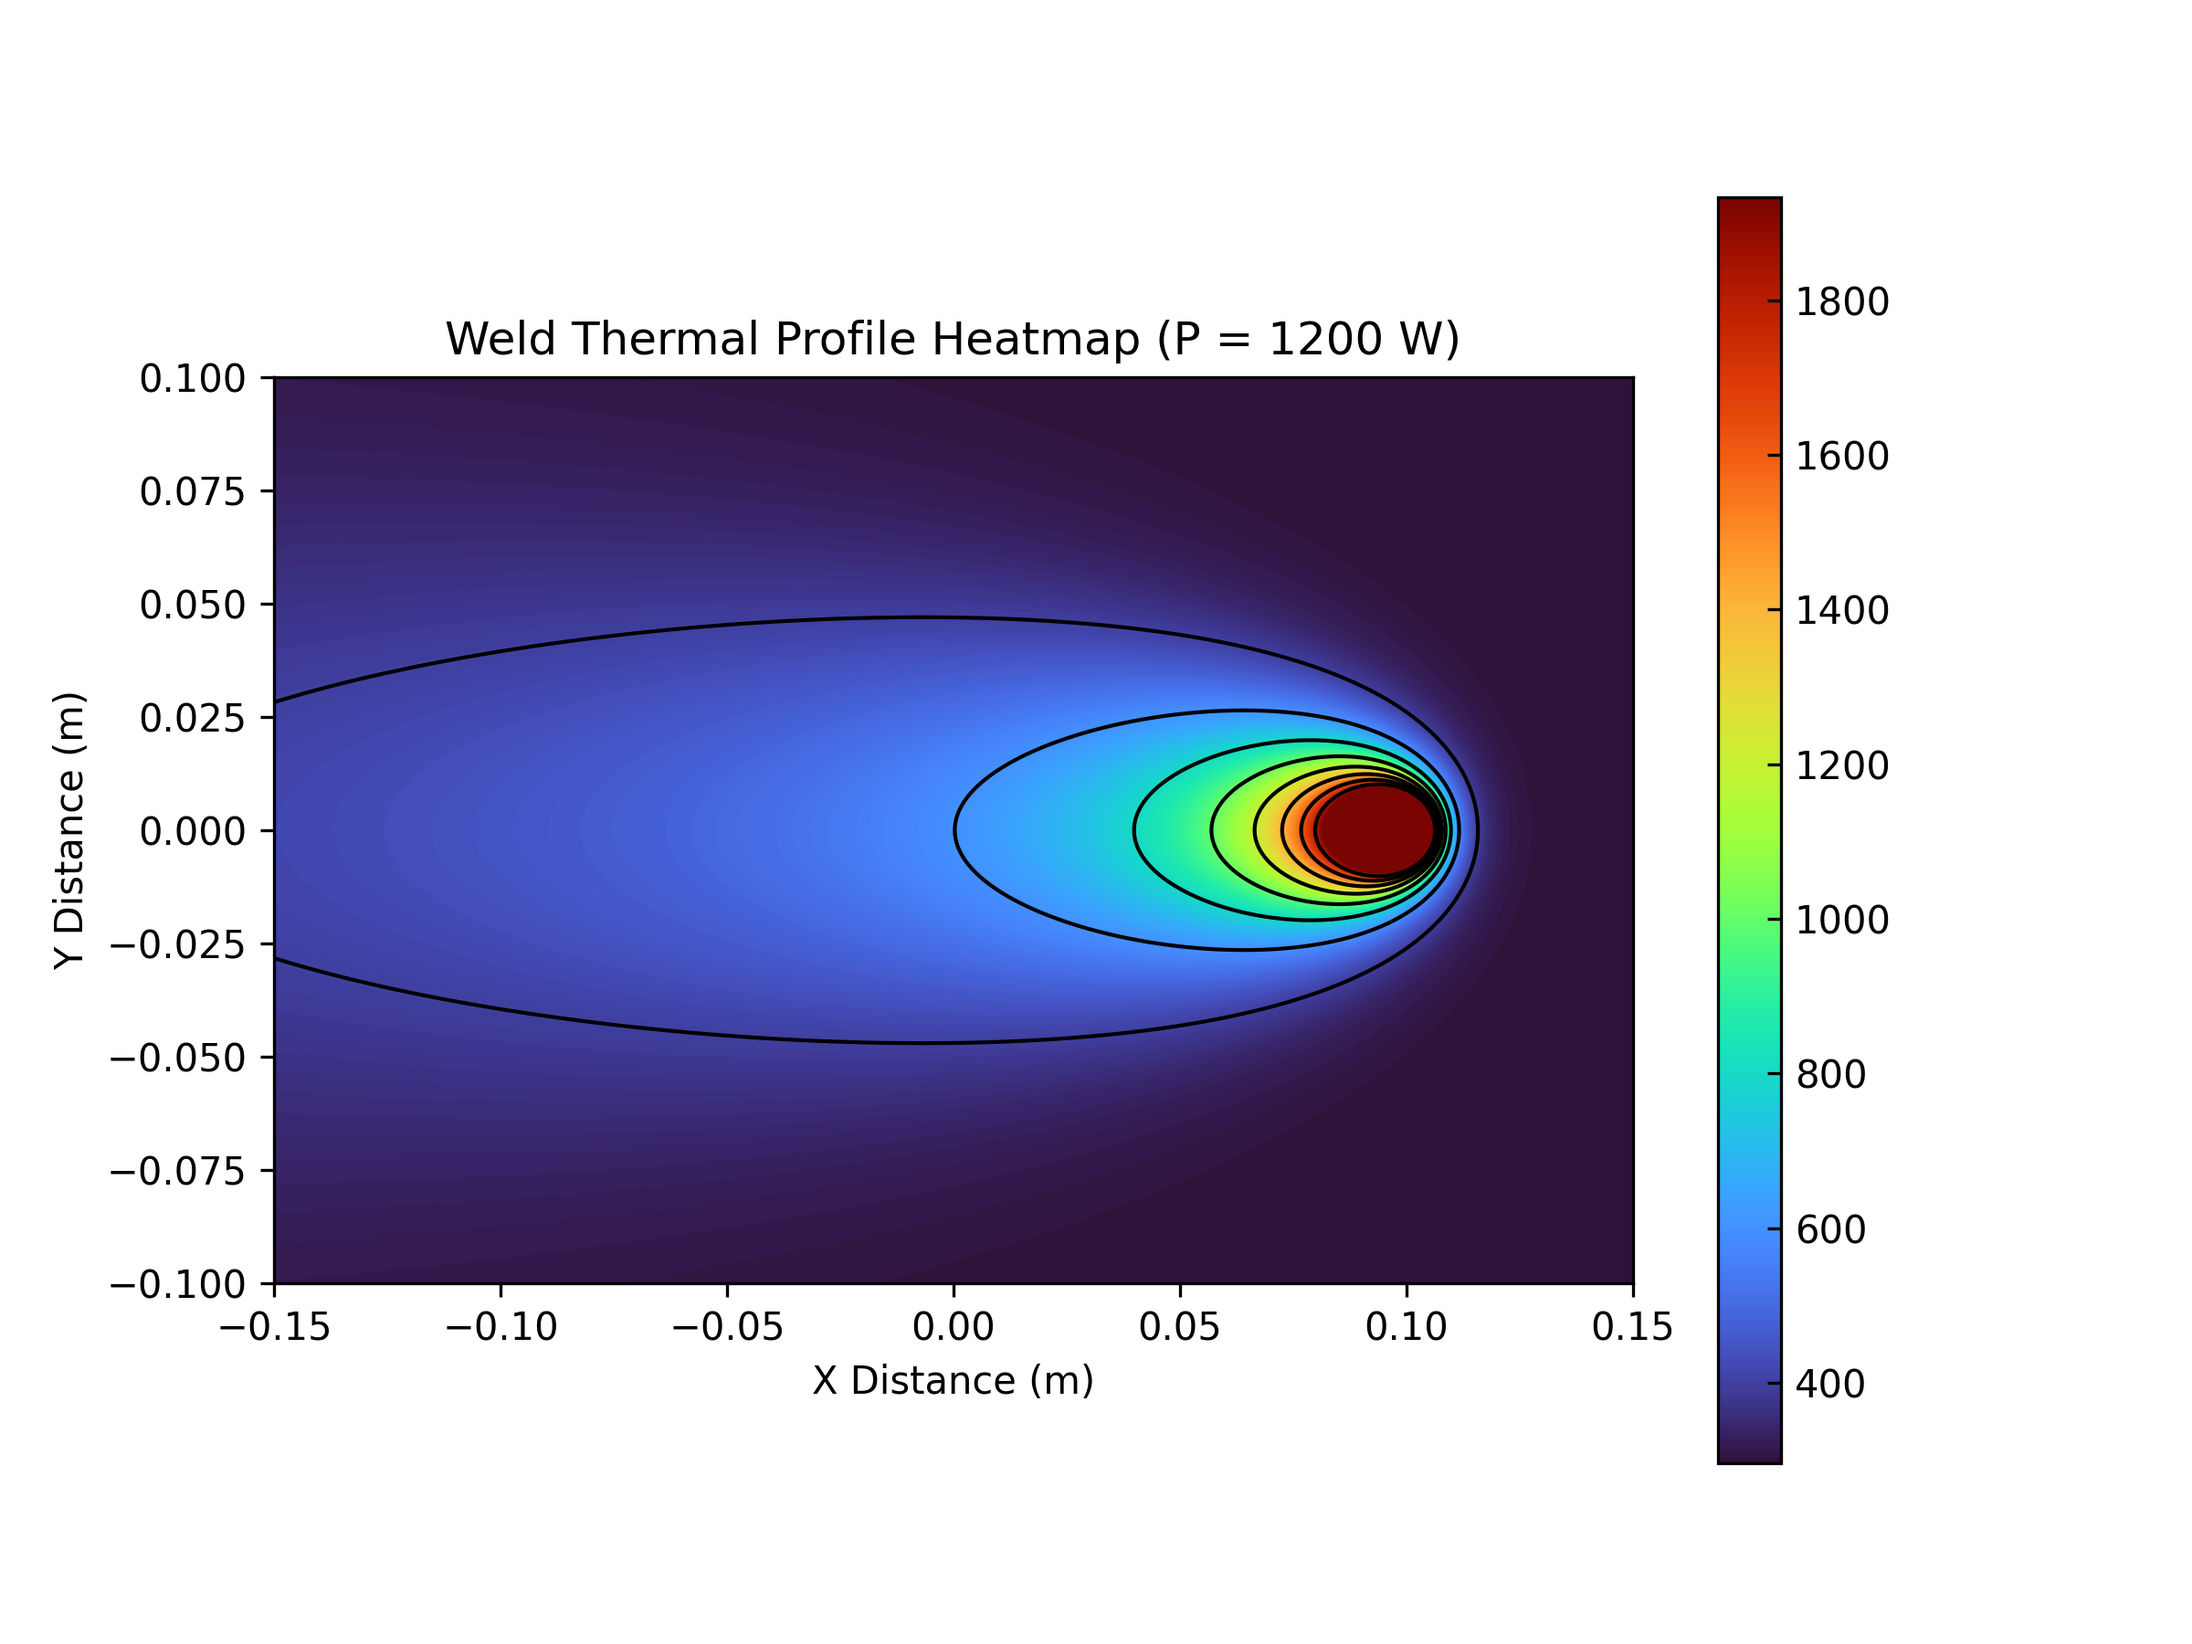
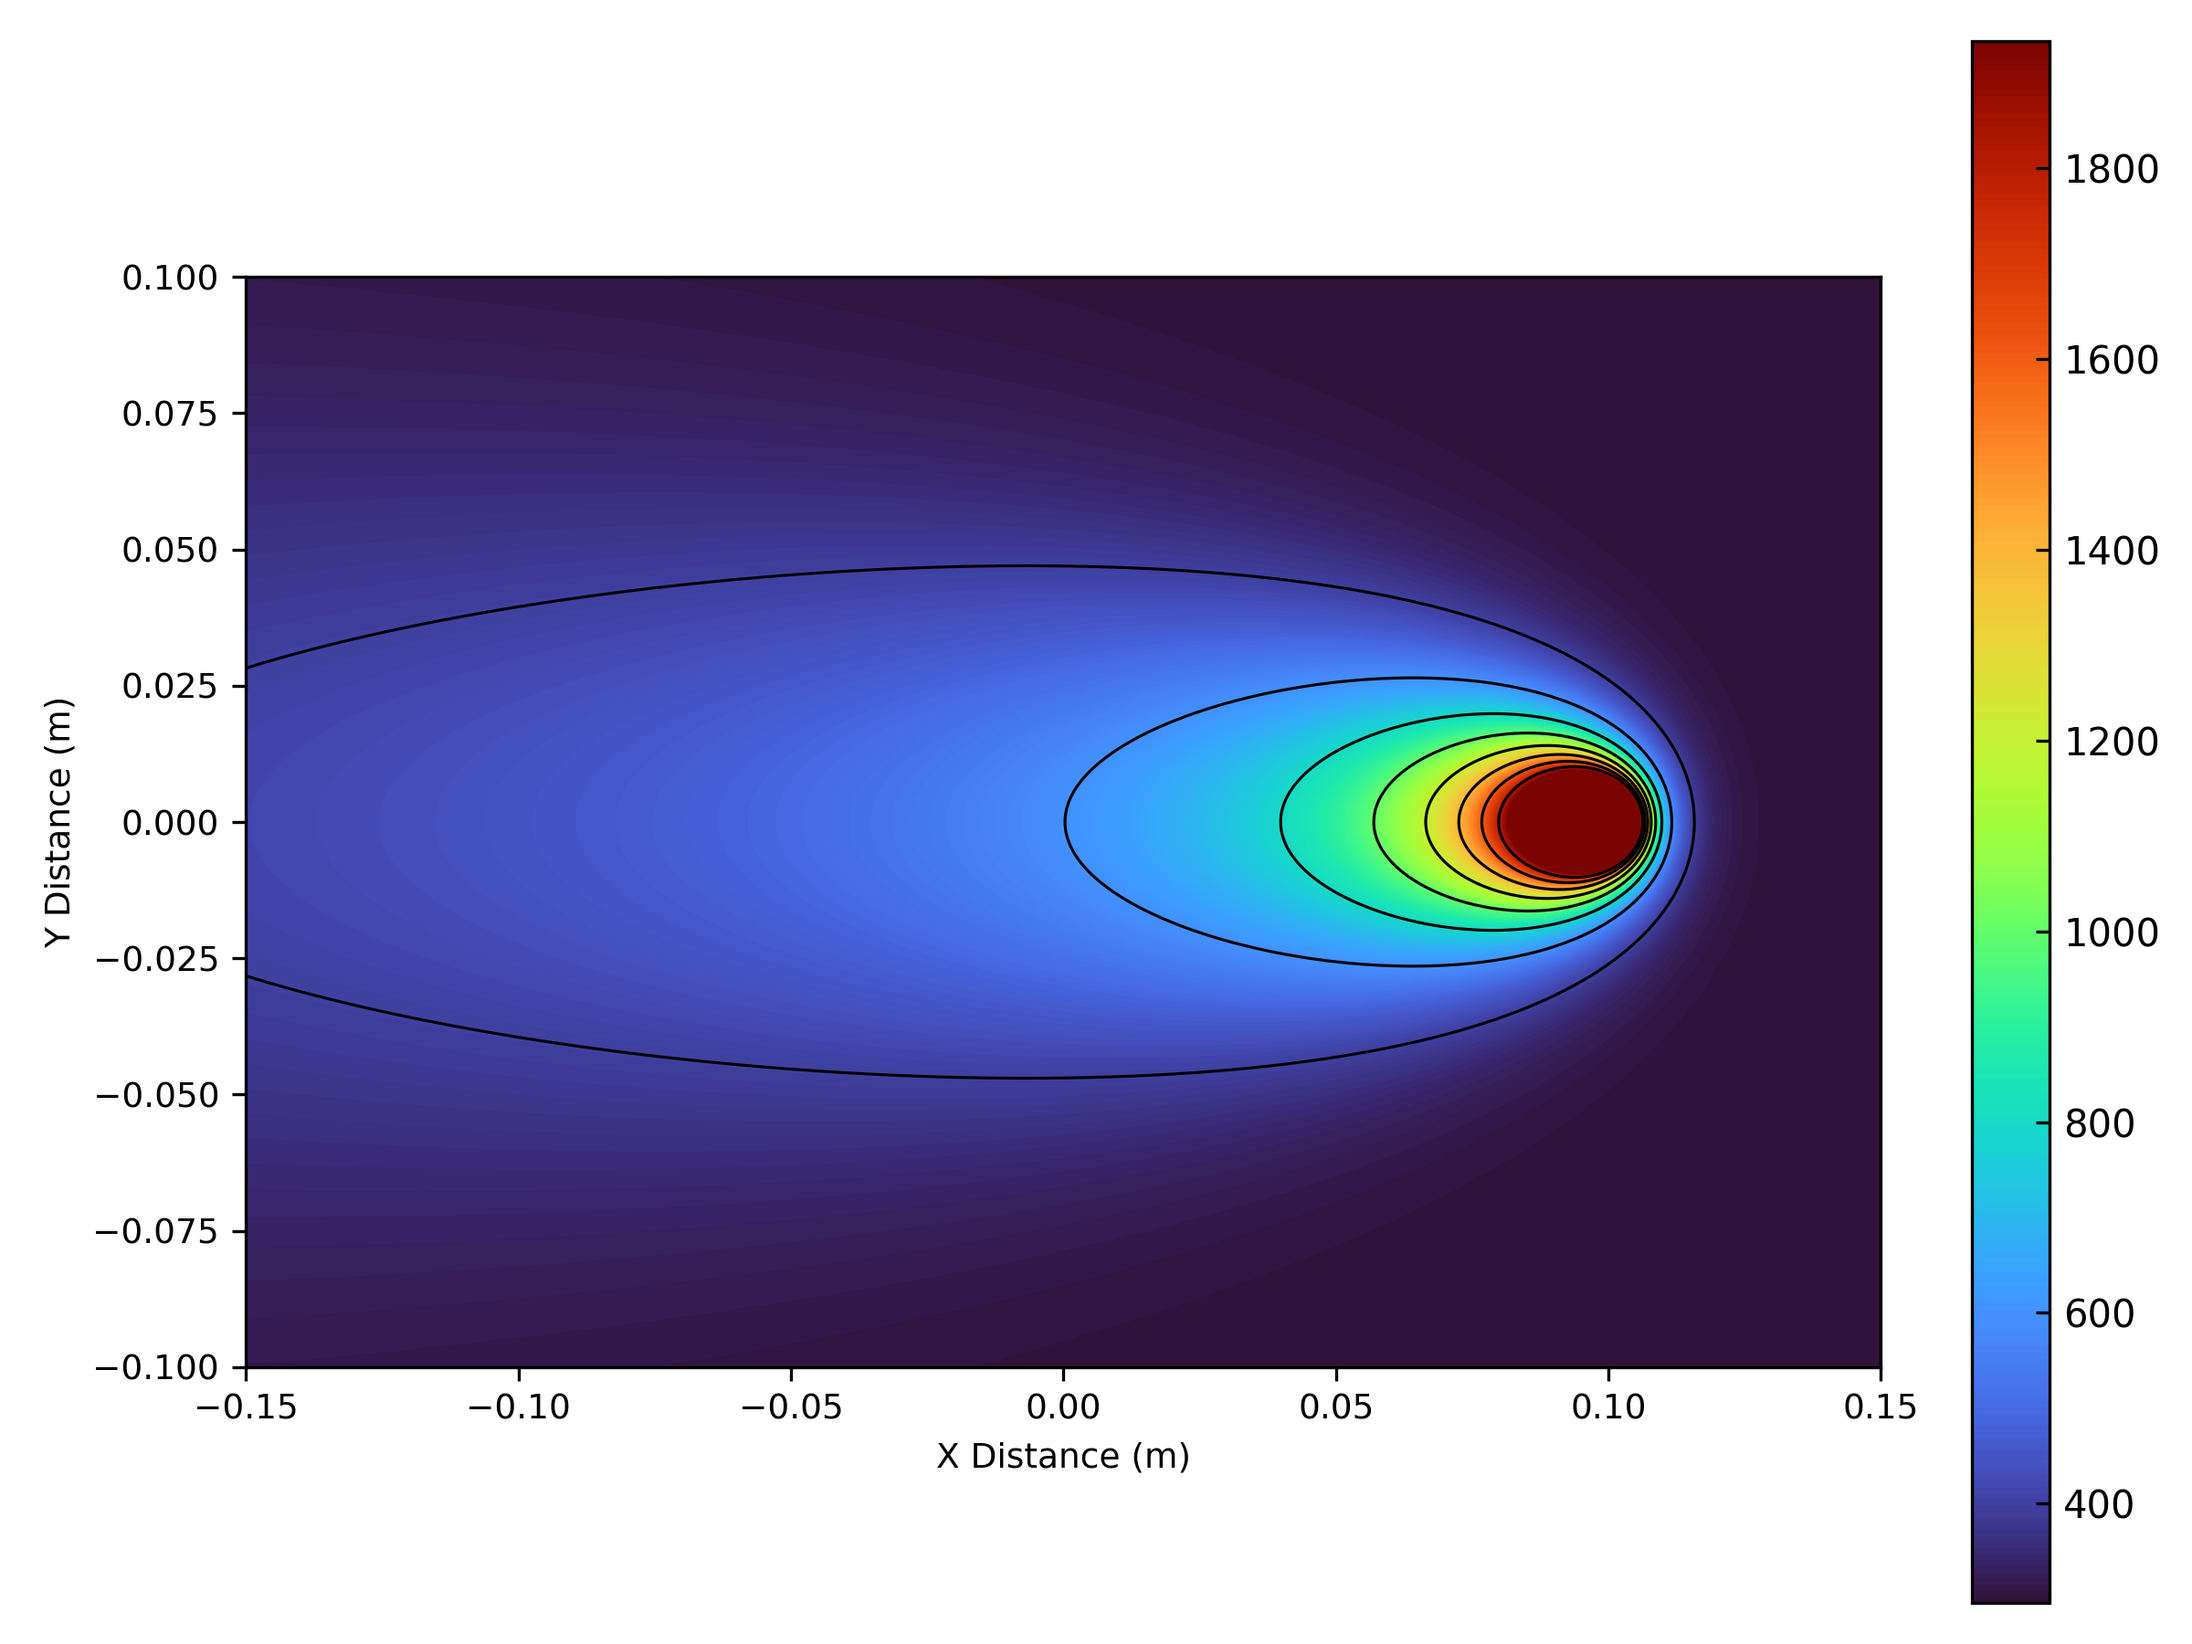
updated contour lines

diff --git a/temperature_profiles.py b/temperature_profiles.py
@@ -29,14 +29,18 @@ temperature = t0 + (q / (2 * np.pi * k * R)) * np.exp(-(v / (2 * a)) * (X - sour
 temperature_capped = np.clip(temperature, None, temp_cap)
 
 # Plot the 2D heatmap
+imratio = temperature_capped.shape[0]/temperature_capped.shape[1]
 plt.figure(figsize=(8, 6))
 plt.imshow(temperature_capped, cmap='turbo', extent=[x.min(), x.max(), y.min(), y.max()], origin='lower')
 levels = [400, 600, 800, 1000, 1200, 1400, 1600, 1800]
-cbar = plt.colorbar()
+cbar = plt.colorbar(fraction=0.05*imratio)
 cbar.ax.tick_params(axis='y', which='both', direction='in', right=True, labelright=True)
-contour = plt.contour(X, Y, temperature_capped, levels=levels, colors='black', linewidths=1)
-plt.xlabel('X Distance (m)')
-plt.ylabel('Y Distance (m)')
-plt.title('Weld Thermal Profile Heatmap (P = 1200 W)')
+contour = plt.contour(X, Y, temperature_capped, levels=levels, colors='black', linewidths=0.75)
+plt.xlabel('X Distance (m)', fontsize=9)
+plt.ylabel('Y Distance (m)', fontsize=9)
+plt.xticks(fontsize=9)
+plt.yticks(fontsize=9)
+# plt.title('Weld Thermal Profile Heatmap (P = 1200 W)')
+plt.tight_layout()
 plt.savefig('Heatmap', dpi=300)
 plt.show()
